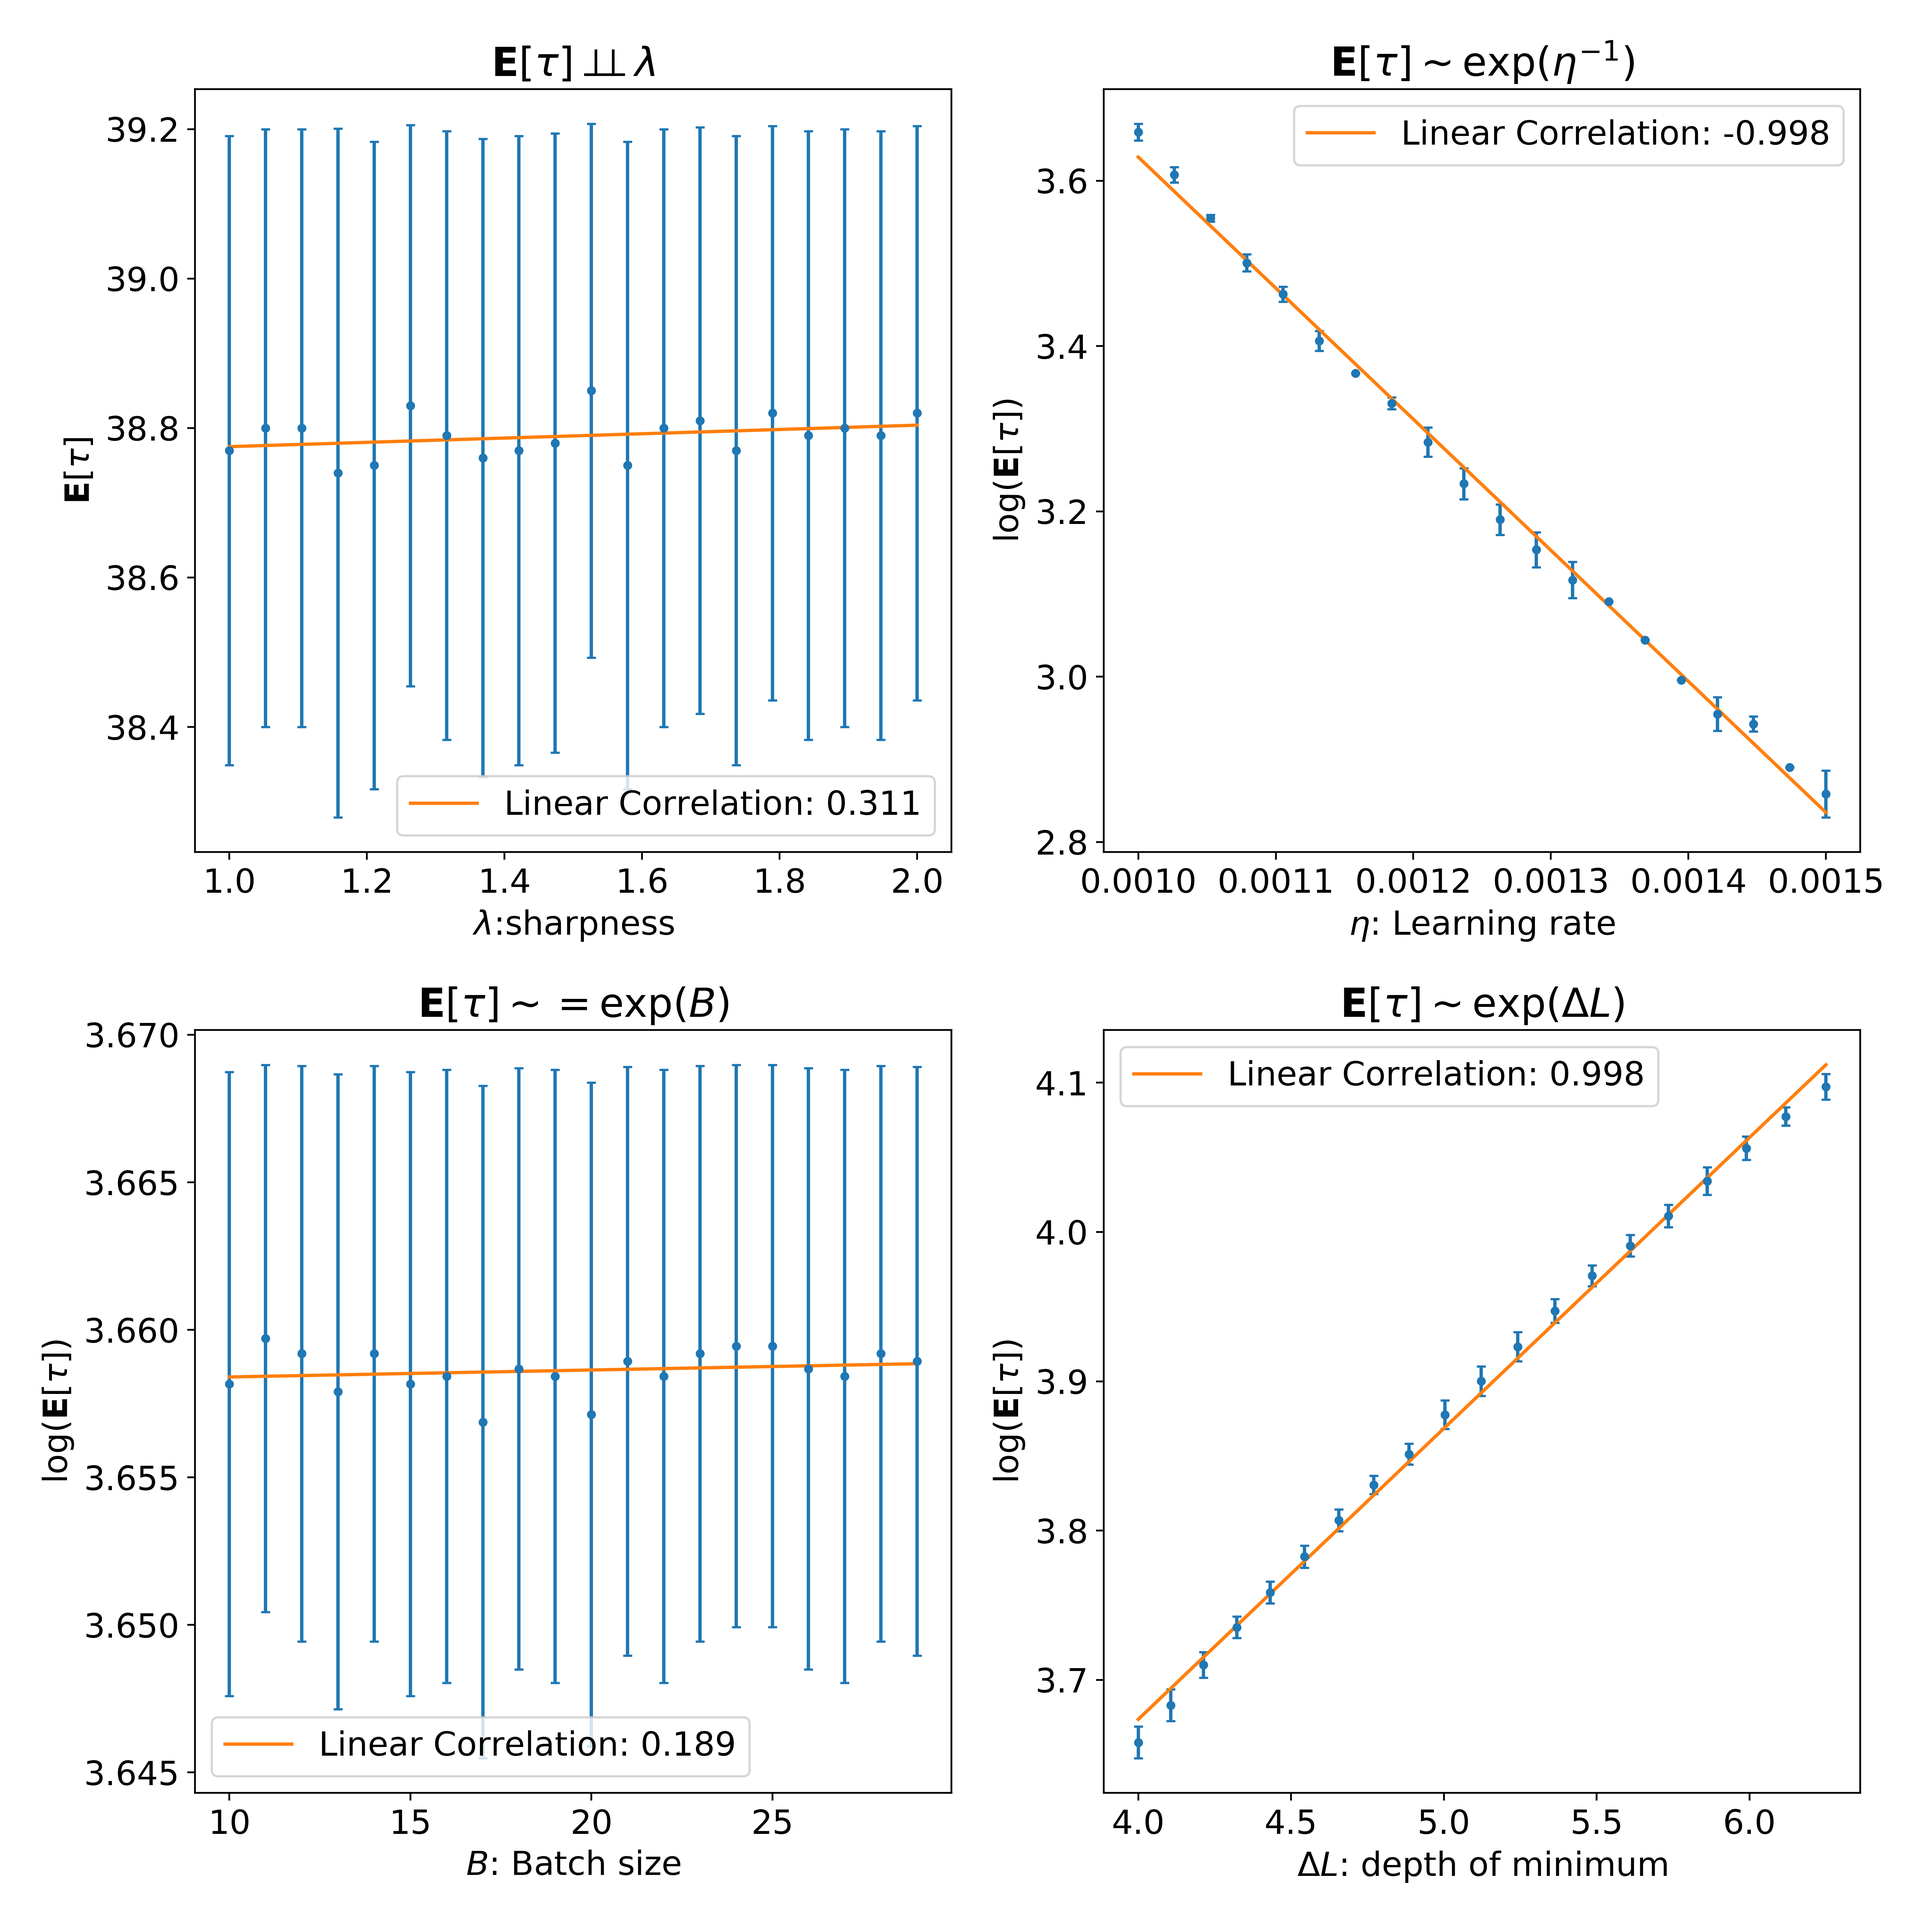
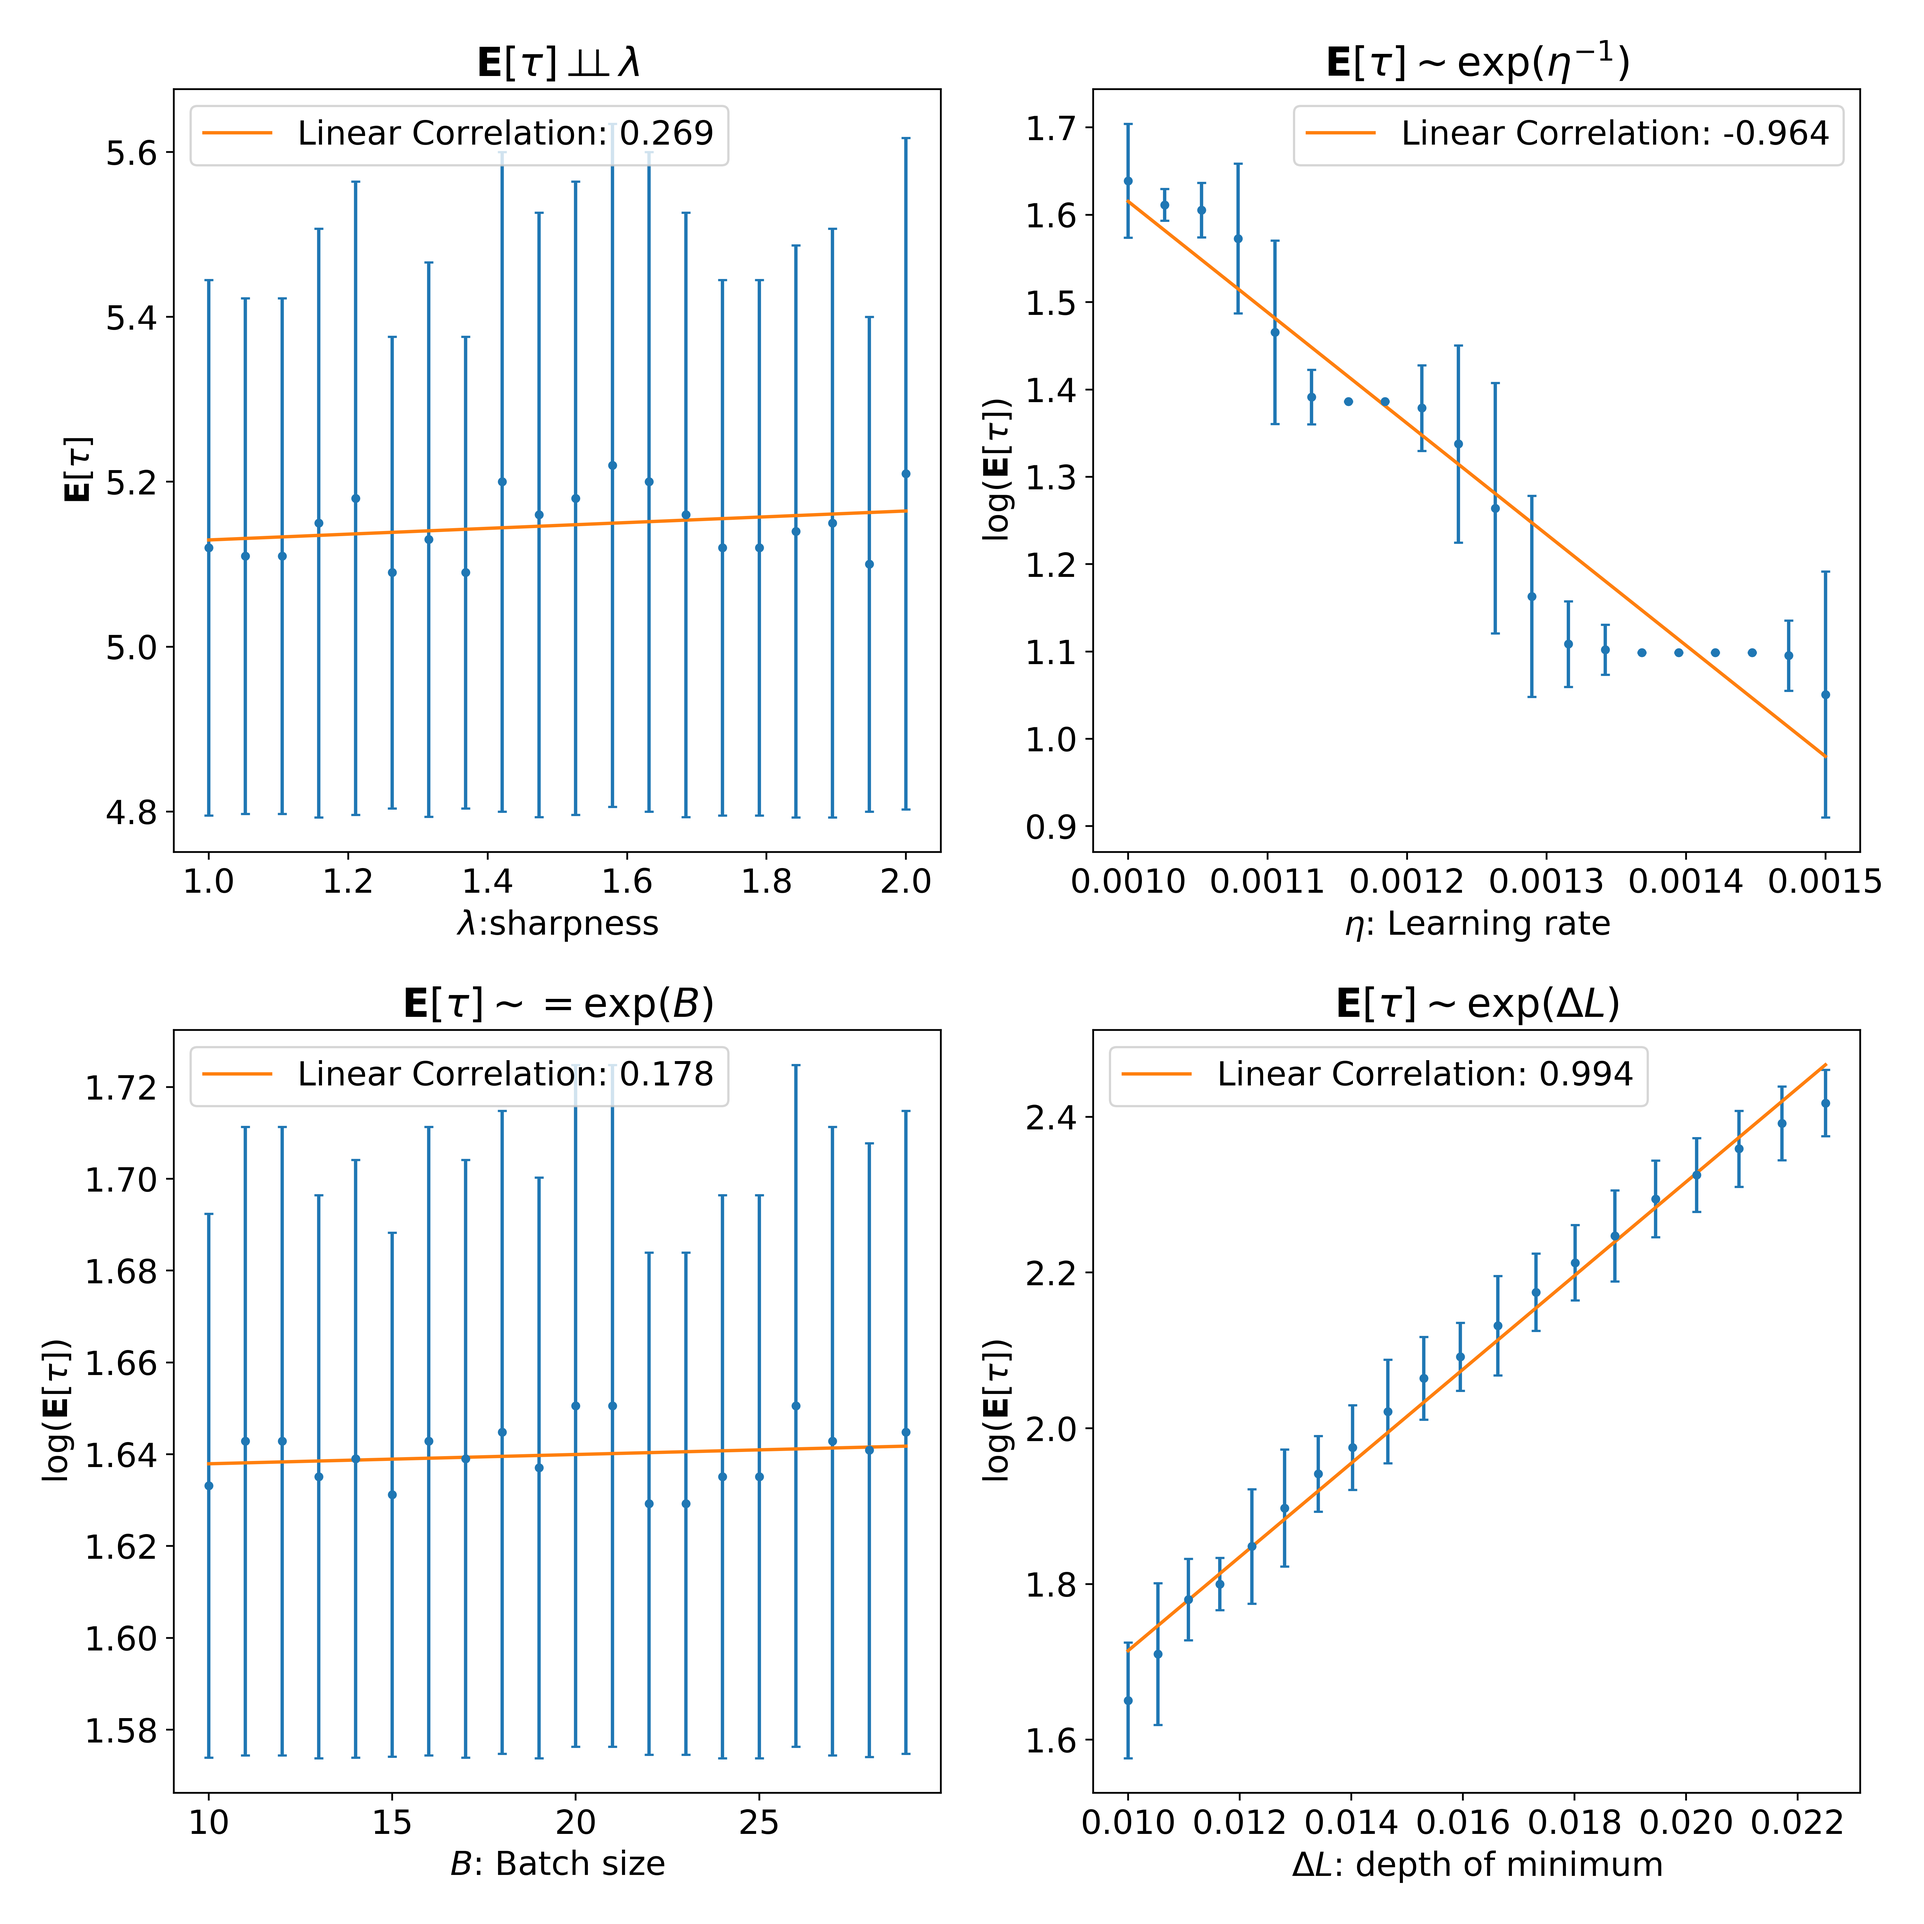
update

diff --git a/exit_time.py b/exit_time.py
@@ -216,11 +216,10 @@ def main():
     dataset = get_dataset(config)
     if rank == 0 and config["model"] == 'MLP':
         report(rank, "Training Started")
-        print( end="", flush=True)
         model = get_model(config, 1)
-        for itr in range(10000):
-            if itr % 1000 == 0: report(rank, f"{itr}/10000")
-            split_num = 1000 
+        for itr in range(100):
+            # if itr % 1000 == 0: report(rank, f"{itr}/10000")
+            split_num = 1000
             model.zero_grad()
             for batch in torch.split(dataset.train.x, split_num):  
                 model(batch).backward()
